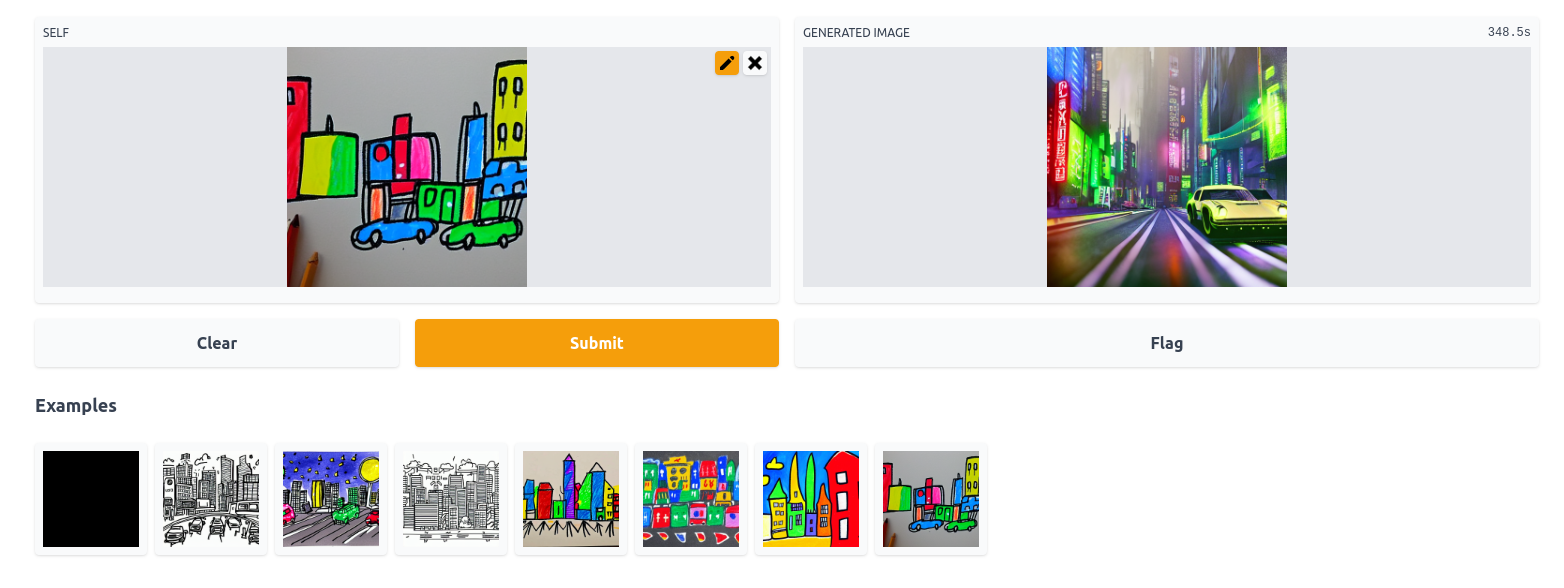
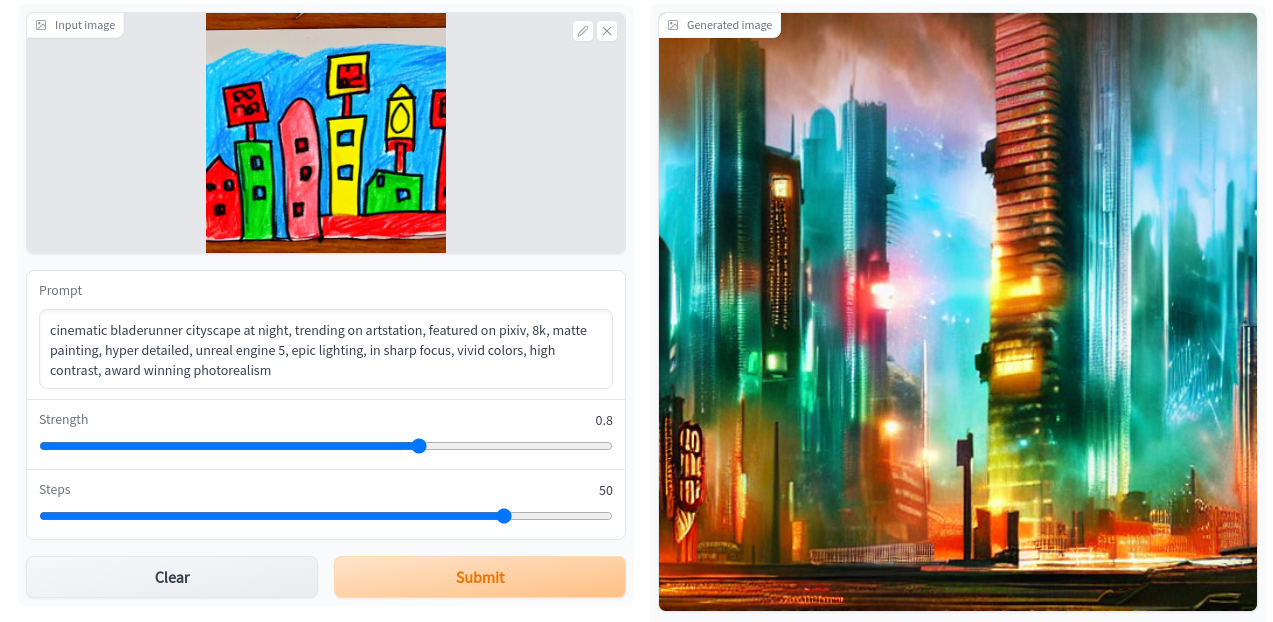
Allow editing the prompt
- Use cpu-medium VM
- Upgrade gradio
- Add sliders for strength and steps

diff --git a/diffusion_app/components/model_demo.py b/diffusion_app/components/model_demo.py
@@ -3,6 +3,7 @@ import logging
 import urllib
 from glob import glob
 
+import lightning as L
 import gradio as gr
 from lightning.app.components.serve import ServeGradio
 from PIL import Image
@@ -30,15 +31,20 @@ class ModelDemo(ServeGradio):
     automatically launch the Gradio interface.
     """
 
-    inputs = gr.inputs.Image(type="pil")
-    outputs = [
-        gr.outputs.Image(label="generated image"),
+    inputs = [
+        gr.Image(shape=(512, 512), type="pil", label="Input image"),
+        gr.Textbox(lines=2, label="Prompt"),
+        gr.Slider(minimum=0.6, maximum=0.9, value=0.8, label="Strength"),
+        gr.Slider(minimum=5, maximum=60, value=50, step=5, label="Steps"),
     ]
-    examples = [f"resources/sketch{i}.png" for i in range(num_imgs)]
+    outputs = [
+        gr.Image(shape=(512, 512), type="pil", label="Generated image"),
+    ]
+    examples = [[f"resources/sketch{i}.png", "cinematic bladerunner cityscape at night, trending on artstation, featured on pixiv, 8k, matte painting, hyper detailed, unreal engine 5, epic lighting, in sharp focus, vivid colors, high contrast, award winning photorealism"] for i in range(num_imgs)]
     enable_queue = True
 
     def __init__(self):
-        super().__init__(parallel=True)
+        super().__init__(parallel=True, cloud_compute=L.CloudCompute("cpu-medium"))
 
     def build_model(self) -> Demo:
         logger.info("loading model...")
@@ -46,5 +52,5 @@ class ModelDemo(ServeGradio):
         logger.info("built model!")
         return model
 
-    def predict(self, image: Image.Image) -> Image.Image:
-        return self.model.predict(image)
+    def predict(self, image, prompt, strength, steps) -> Image.Image:
+        return self.model.predict(image, prompt, strength, steps)

diff --git a/diffusion_app/diffusion_demo.py b/diffusion_app/diffusion_demo.py
@@ -24,17 +24,16 @@ class Demo:
         print("Model loaded.")
 
     def predict(
-            self, init_image,
-            num_inference_steps=50, strength=0.8, guidance_scale=7.5, eta=0.0):
+            self, init_image, prompt, strength, steps,
+            guidance_scale=7.5, eta=0.0):
         init_image = np.array(init_image)
         # convert from RGB to BGR
         init_image = init_image[:, :, ::-1]
         # run 
-        prompt = "cinematic bladerunner cityscape at night, trending on artstation, featured on pixiv, 8k, matte painting, hyper detailed, unreal engine 5, epic lighting, in sharp focus, vivid colors, high contrast, photorealism"
         print(f"Generating image from prompt: \n{prompt}")
         image = self.stable_diffusion(
             prompt=prompt, init_image=init_image,
-            num_inference_steps=num_inference_steps,
+            num_inference_steps=int(steps),
             strength=strength, guidance_scale=guidance_scale, eta=eta
         )
 
@@ -45,7 +44,7 @@ class Demo:
 
 if __name__ == "__main__":
 
-    img_url = "https://raw.githubusercontent.com/luminide/diffusion-demo/main/assets/sketch01.png"
+    img_url = "https://raw.githubusercontent.com/luminide/diffusion-demo/main/assets/sketch0.png"
     img = Image.open(requests.get(img_url, stream=True).raw)
     model = Demo()
     result = model.predict(img)
